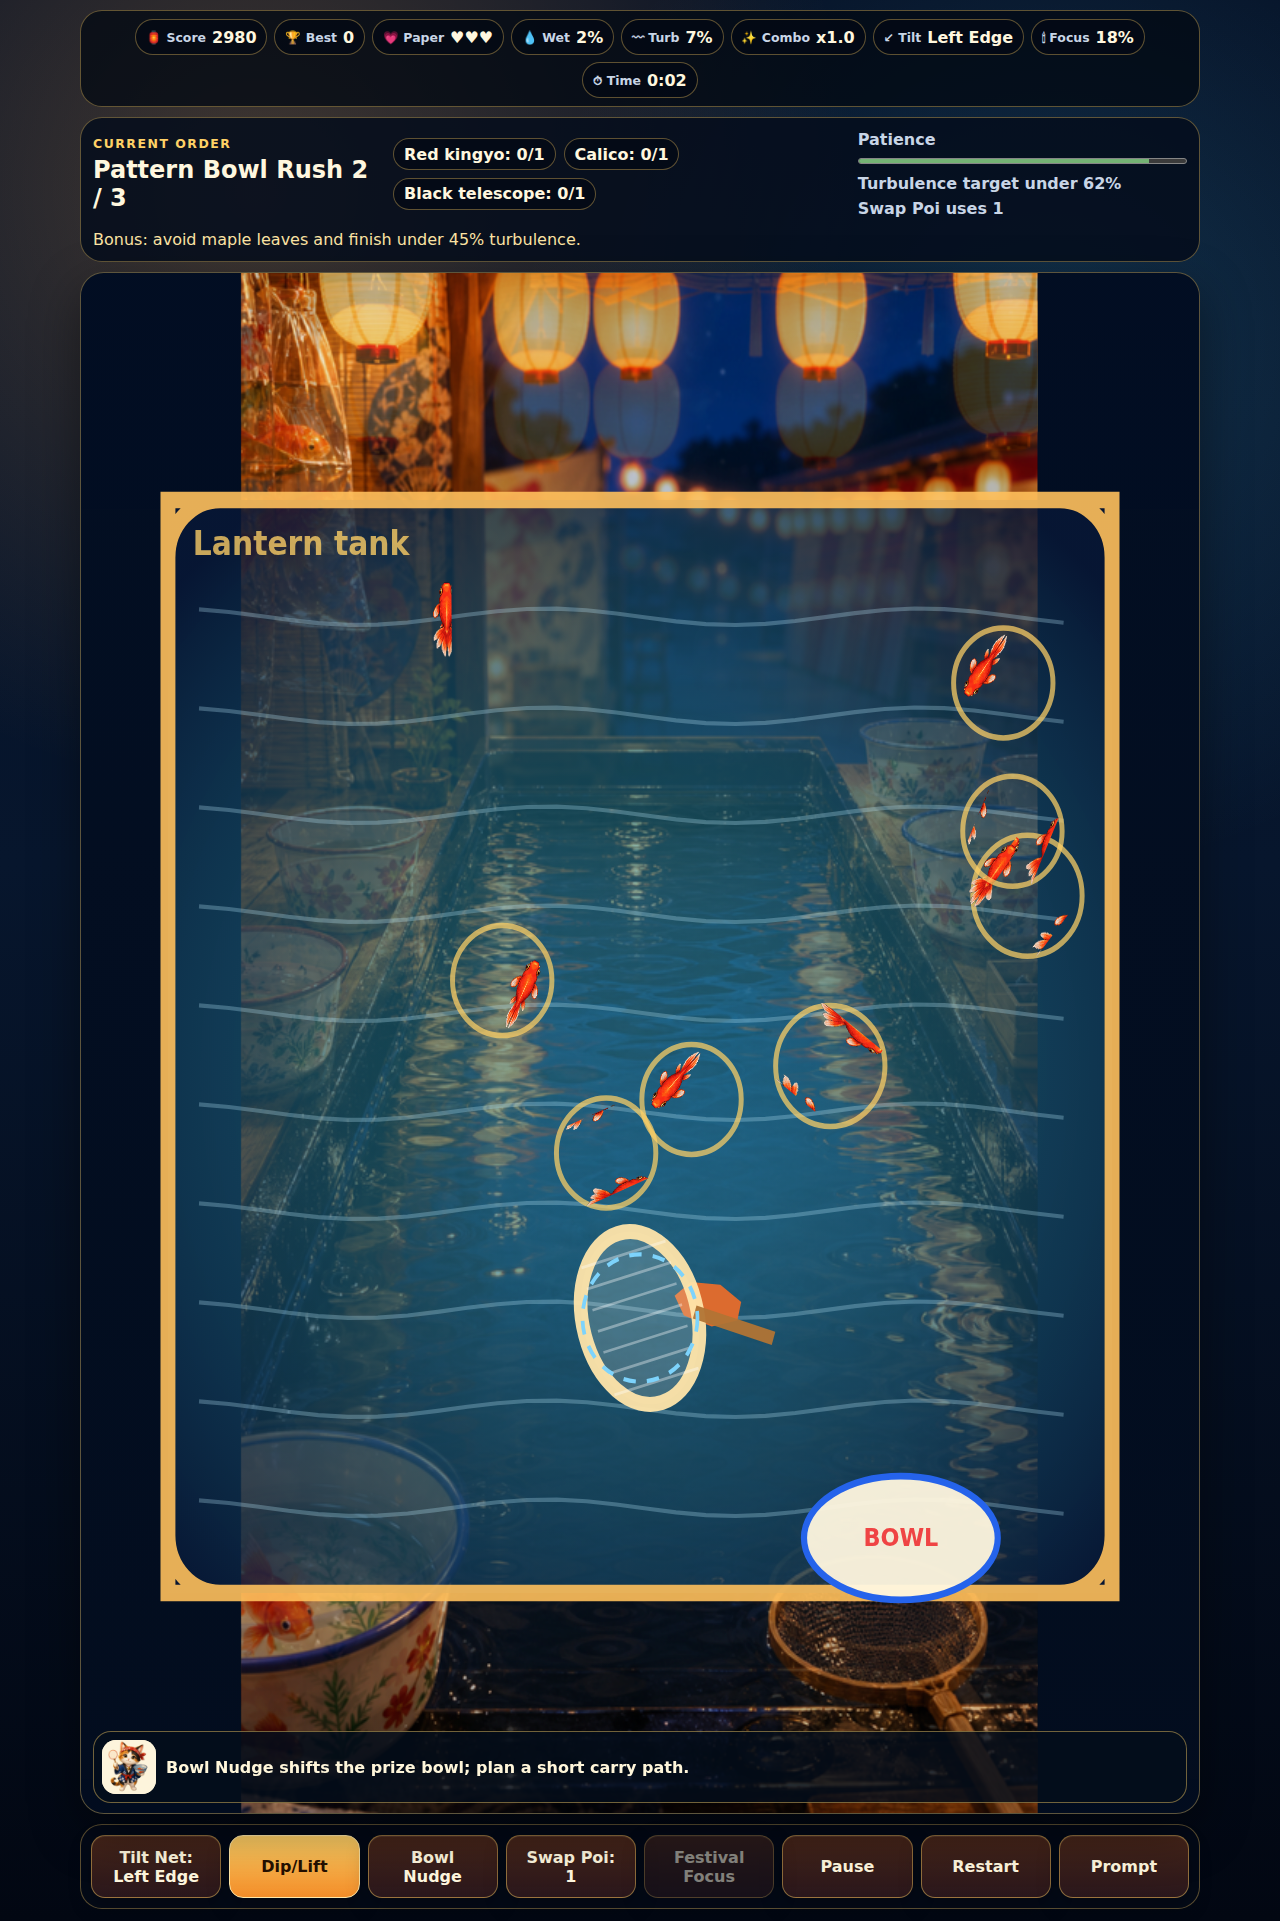
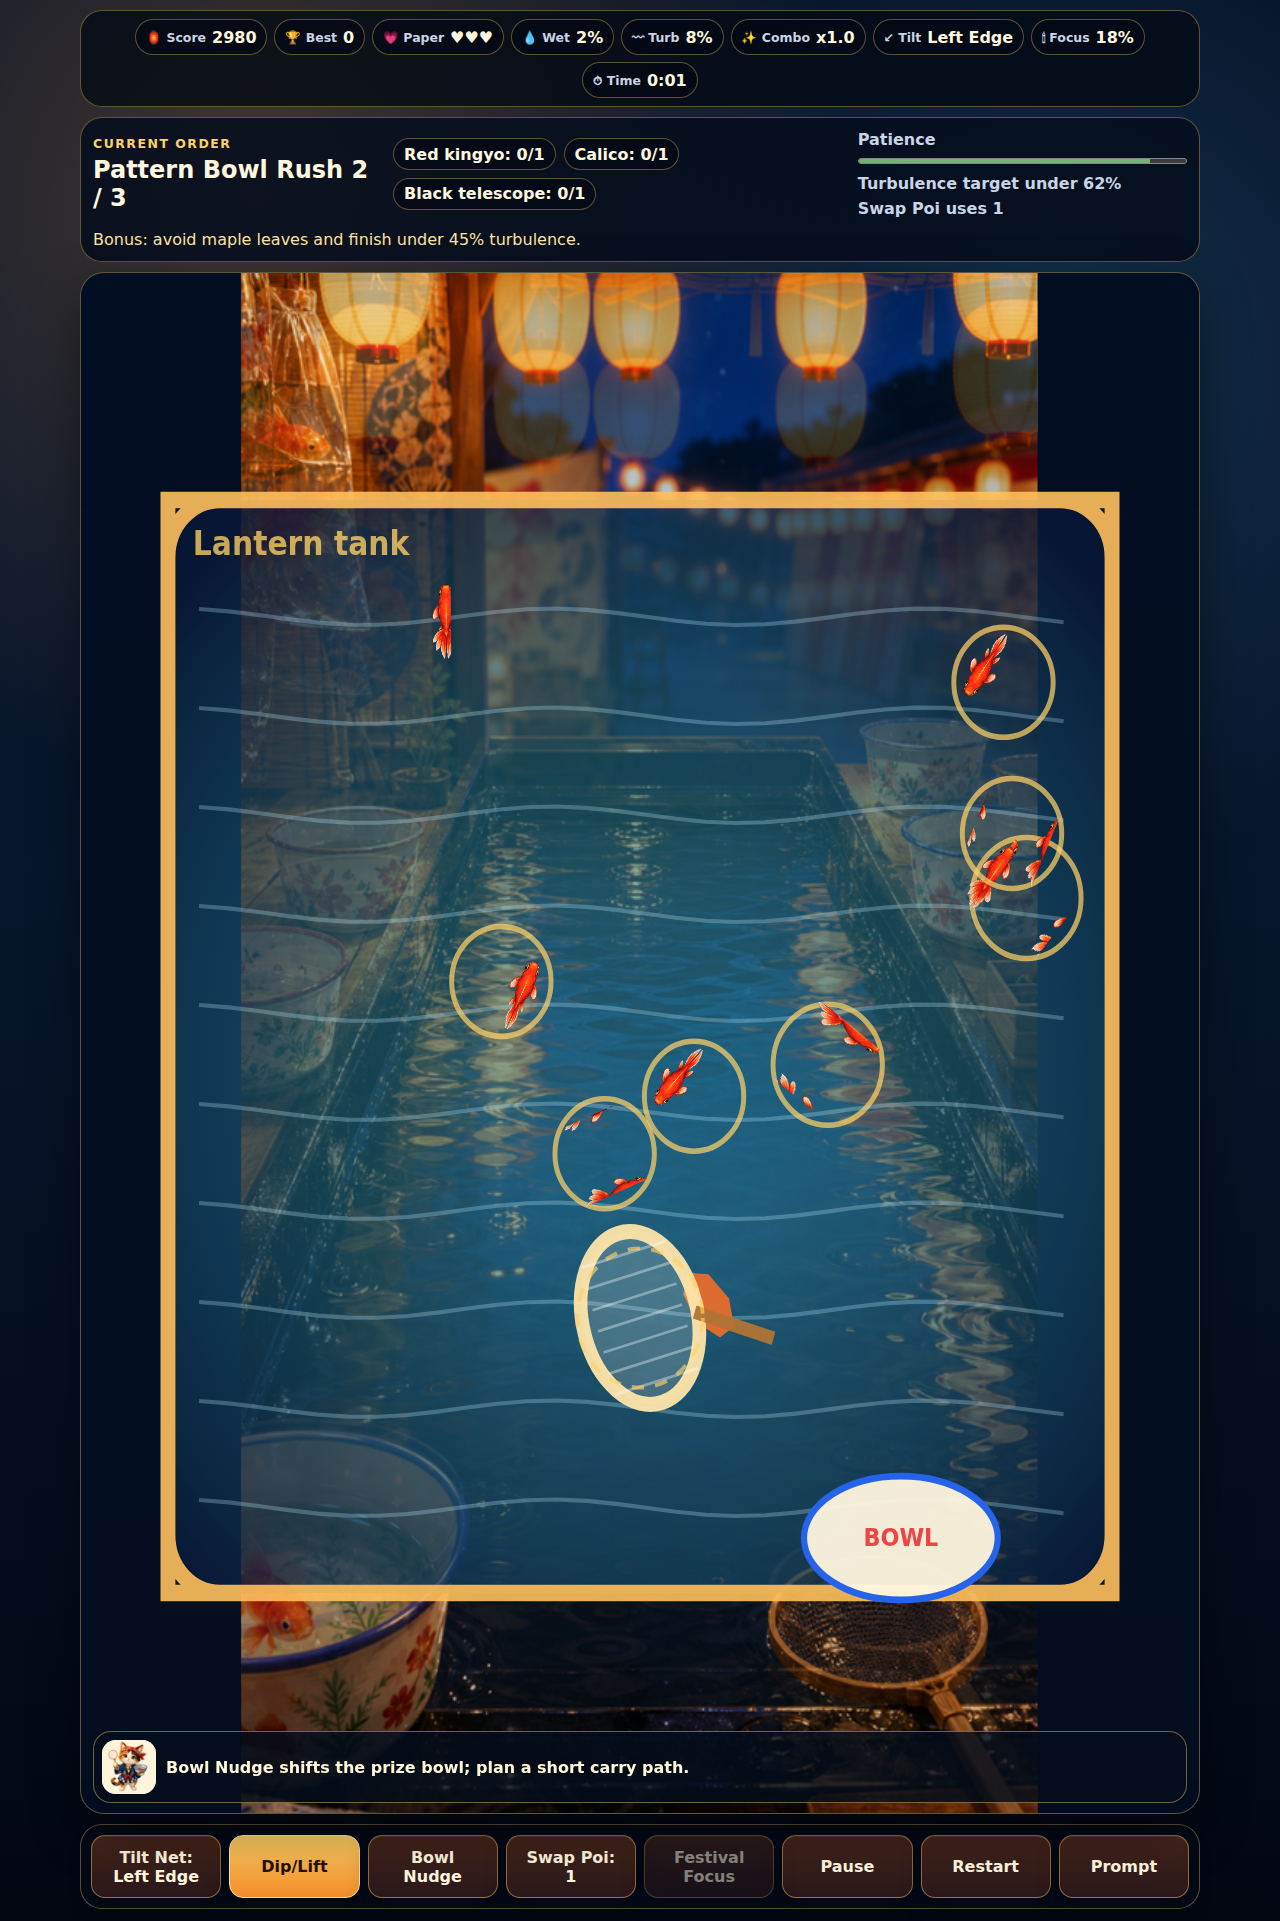
fix: tighten day 037 mobile viewport

diff --git a/apps/day-037-kingyo-poi-festival-scooper/styles.css b/apps/day-037-kingyo-poi-festival-scooper/styles.css
@@ -208,23 +208,23 @@ meter { width: 100%; height: 12px; }
   .audio-note { margin: 7px 0; font-size: 0.78rem; }
   .menu-actions button, .menu-actions a { min-height: 48px; padding: 0.55rem 0.7rem; }
 
-  .play-screen { grid-template-rows: auto auto minmax(300px, 1fr) auto; gap: 6px; min-height: calc(100dvh - 10px); }
-  .hud { gap: 4px; padding: 5px; border-radius: 16px; }
-  .chip { min-height: 31px; padding: 0.24rem 0.4rem; font-size: 0.78rem; }
-  .chip span { font-size: 0.66rem; }
-  .order-card { grid-template-columns: 1fr; gap: 5px; padding: 8px; border-radius: 16px; }
-  .order-card h2 { font-size: 1.05rem; }
-  .request-list { gap: 5px; }
-  .request-pill { padding: 0.22rem 0.44rem; font-size: 0.76rem; }
-  .order-bars { grid-template-columns: 1fr 1fr; gap: 4px 8px; font-size: 0.72rem; }
-  .bonus-objective { font-size: 0.75rem; }
-  .stage-wrap { min-height: 318px; border-radius: 18px; }
-  #gameCanvas { min-height: 318px; }
+  .play-screen { grid-template-rows: auto auto minmax(0, 1fr) auto; gap: 5px; height: calc(100dvh - 10px); min-height: 0; overflow: hidden; }
+  .hud { gap: 3px; padding: 5px; border-radius: 16px; }
+  .chip { min-height: 30px; padding: 0.22rem 0.38rem; font-size: 0.76rem; }
+  .chip span { font-size: 0.64rem; }
+  .order-card { grid-template-columns: 1fr; gap: 4px; padding: 7px; border-radius: 16px; }
+  .order-card h2 { font-size: 1rem; }
+  .request-list { gap: 4px; }
+  .request-pill { padding: 0.2rem 0.42rem; font-size: 0.74rem; }
+  .order-bars { grid-template-columns: 1fr 1fr; gap: 3px 7px; font-size: 0.7rem; }
+  .bonus-objective { font-size: 0.72rem; line-height: 1.1; }
+  .stage-wrap { min-height: 0; border-radius: 18px; }
+  #gameCanvas { min-height: 0; }
   .stage-helper { left: 7px; right: 7px; bottom: 7px; padding: 5px; border-radius: 14px; }
-  .stage-helper img { width: 44px; height: 44px; }
-  .stage-helper p { font-size: 0.78rem; line-height: 1.16; }
-  .controls { grid-template-columns: repeat(4, 1fr); gap: 6px; padding: 6px; border-radius: 16px; }
-  button, .controls a, #promptButton, .overlay-actions a { min-height: 44px; padding: 0.42rem 0.36rem; border-radius: 12px; font-size: 0.74rem; line-height: 1.05; }
+  .stage-helper img { width: 42px; height: 42px; }
+  .stage-helper p { font-size: 0.76rem; line-height: 1.12; }
+  .controls { grid-template-columns: repeat(4, 1fr); gap: 5px; padding: 5px; border-radius: 16px; }
+  button, .controls a, #promptButton, .overlay-actions a { min-height: 44px; padding: 0.38rem 0.32rem; border-radius: 12px; font-size: 0.72rem; line-height: 1.02; }
 }
 
 @media (prefers-reduced-motion: reduce) {

diff --git a/release/games/037/styles.css b/release/games/037/styles.css
@@ -208,23 +208,23 @@ meter { width: 100%; height: 12px; }
   .audio-note { margin: 7px 0; font-size: 0.78rem; }
   .menu-actions button, .menu-actions a { min-height: 48px; padding: 0.55rem 0.7rem; }
 
-  .play-screen { grid-template-rows: auto auto minmax(300px, 1fr) auto; gap: 6px; min-height: calc(100dvh - 10px); }
-  .hud { gap: 4px; padding: 5px; border-radius: 16px; }
-  .chip { min-height: 31px; padding: 0.24rem 0.4rem; font-size: 0.78rem; }
-  .chip span { font-size: 0.66rem; }
-  .order-card { grid-template-columns: 1fr; gap: 5px; padding: 8px; border-radius: 16px; }
-  .order-card h2 { font-size: 1.05rem; }
-  .request-list { gap: 5px; }
-  .request-pill { padding: 0.22rem 0.44rem; font-size: 0.76rem; }
-  .order-bars { grid-template-columns: 1fr 1fr; gap: 4px 8px; font-size: 0.72rem; }
-  .bonus-objective { font-size: 0.75rem; }
-  .stage-wrap { min-height: 318px; border-radius: 18px; }
-  #gameCanvas { min-height: 318px; }
+  .play-screen { grid-template-rows: auto auto minmax(0, 1fr) auto; gap: 5px; height: calc(100dvh - 10px); min-height: 0; overflow: hidden; }
+  .hud { gap: 3px; padding: 5px; border-radius: 16px; }
+  .chip { min-height: 30px; padding: 0.22rem 0.38rem; font-size: 0.76rem; }
+  .chip span { font-size: 0.64rem; }
+  .order-card { grid-template-columns: 1fr; gap: 4px; padding: 7px; border-radius: 16px; }
+  .order-card h2 { font-size: 1rem; }
+  .request-list { gap: 4px; }
+  .request-pill { padding: 0.2rem 0.42rem; font-size: 0.74rem; }
+  .order-bars { grid-template-columns: 1fr 1fr; gap: 3px 7px; font-size: 0.7rem; }
+  .bonus-objective { font-size: 0.72rem; line-height: 1.1; }
+  .stage-wrap { min-height: 0; border-radius: 18px; }
+  #gameCanvas { min-height: 0; }
   .stage-helper { left: 7px; right: 7px; bottom: 7px; padding: 5px; border-radius: 14px; }
-  .stage-helper img { width: 44px; height: 44px; }
-  .stage-helper p { font-size: 0.78rem; line-height: 1.16; }
-  .controls { grid-template-columns: repeat(4, 1fr); gap: 6px; padding: 6px; border-radius: 16px; }
-  button, .controls a, #promptButton, .overlay-actions a { min-height: 44px; padding: 0.42rem 0.36rem; border-radius: 12px; font-size: 0.74rem; line-height: 1.05; }
+  .stage-helper img { width: 42px; height: 42px; }
+  .stage-helper p { font-size: 0.76rem; line-height: 1.12; }
+  .controls { grid-template-columns: repeat(4, 1fr); gap: 5px; padding: 5px; border-radius: 16px; }
+  button, .controls a, #promptButton, .overlay-actions a { min-height: 44px; padding: 0.38rem 0.32rem; border-radius: 12px; font-size: 0.72rem; line-height: 1.02; }
 }
 
 @media (prefers-reduced-motion: reduce) {

diff --git a/release/kingyo/styles.css b/release/kingyo/styles.css
@@ -208,23 +208,23 @@ meter { width: 100%; height: 12px; }
   .audio-note { margin: 7px 0; font-size: 0.78rem; }
   .menu-actions button, .menu-actions a { min-height: 48px; padding: 0.55rem 0.7rem; }
 
-  .play-screen { grid-template-rows: auto auto minmax(300px, 1fr) auto; gap: 6px; min-height: calc(100dvh - 10px); }
-  .hud { gap: 4px; padding: 5px; border-radius: 16px; }
-  .chip { min-height: 31px; padding: 0.24rem 0.4rem; font-size: 0.78rem; }
-  .chip span { font-size: 0.66rem; }
-  .order-card { grid-template-columns: 1fr; gap: 5px; padding: 8px; border-radius: 16px; }
-  .order-card h2 { font-size: 1.05rem; }
-  .request-list { gap: 5px; }
-  .request-pill { padding: 0.22rem 0.44rem; font-size: 0.76rem; }
-  .order-bars { grid-template-columns: 1fr 1fr; gap: 4px 8px; font-size: 0.72rem; }
-  .bonus-objective { font-size: 0.75rem; }
-  .stage-wrap { min-height: 318px; border-radius: 18px; }
-  #gameCanvas { min-height: 318px; }
+  .play-screen { grid-template-rows: auto auto minmax(0, 1fr) auto; gap: 5px; height: calc(100dvh - 10px); min-height: 0; overflow: hidden; }
+  .hud { gap: 3px; padding: 5px; border-radius: 16px; }
+  .chip { min-height: 30px; padding: 0.22rem 0.38rem; font-size: 0.76rem; }
+  .chip span { font-size: 0.64rem; }
+  .order-card { grid-template-columns: 1fr; gap: 4px; padding: 7px; border-radius: 16px; }
+  .order-card h2 { font-size: 1rem; }
+  .request-list { gap: 4px; }
+  .request-pill { padding: 0.2rem 0.42rem; font-size: 0.74rem; }
+  .order-bars { grid-template-columns: 1fr 1fr; gap: 3px 7px; font-size: 0.7rem; }
+  .bonus-objective { font-size: 0.72rem; line-height: 1.1; }
+  .stage-wrap { min-height: 0; border-radius: 18px; }
+  #gameCanvas { min-height: 0; }
   .stage-helper { left: 7px; right: 7px; bottom: 7px; padding: 5px; border-radius: 14px; }
-  .stage-helper img { width: 44px; height: 44px; }
-  .stage-helper p { font-size: 0.78rem; line-height: 1.16; }
-  .controls { grid-template-columns: repeat(4, 1fr); gap: 6px; padding: 6px; border-radius: 16px; }
-  button, .controls a, #promptButton, .overlay-actions a { min-height: 44px; padding: 0.42rem 0.36rem; border-radius: 12px; font-size: 0.74rem; line-height: 1.05; }
+  .stage-helper img { width: 42px; height: 42px; }
+  .stage-helper p { font-size: 0.76rem; line-height: 1.12; }
+  .controls { grid-template-columns: repeat(4, 1fr); gap: 5px; padding: 5px; border-radius: 16px; }
+  button, .controls a, #promptButton, .overlay-actions a { min-height: 44px; padding: 0.38rem 0.32rem; border-radius: 12px; font-size: 0.72rem; line-height: 1.02; }
 }
 
 @media (prefers-reduced-motion: reduce) {

diff --git a/ai/postmortems/day-037.md b/ai/postmortems/day-037.md
@@ -54,8 +54,9 @@ Custom Playwright route smoke at `/kingyo/` verified:
 - `pnpm build` — passed and regenerated `release/index.html`, `release/assets/index-DFXTTwkp.css`, and `release/assets/index-qlNzCmVv.js`.
 - `pnpm release:validate` — passed (`release validation passed`).
 - `pnpm test:smoke` — passed (4/4 Playwright gallery smoke tests across desktop/mobile Chromium).
-- `pnpm test:immutable -- --base origin/main` — passed (`immutable guard passed`).
+- `pnpm test:immutable -- --base origin/main` — passed (`immutable guard passed`). For the same-run post-deploy mobile CSS correction, the corrective commit uses a narrow Day 037 regeneration allowlist because `origin/main` already contained the initial Day 037 immutable release.
 - Docker/Nginx static smoke — passed for `/kingyo/`, `/kingyo/prompt.html`, `/manifest.json`, and `nginx -t` inside the container.
+- Post-deploy live Playwright smoke initially caught mobile controls extending below the 390×844 first viewport; the mobile CSS grid was tightened, archive/alias screenshots were regenerated, and the corrective route smoke passed locally before the fix commit.
 
 ## Issues found and fixed
 
